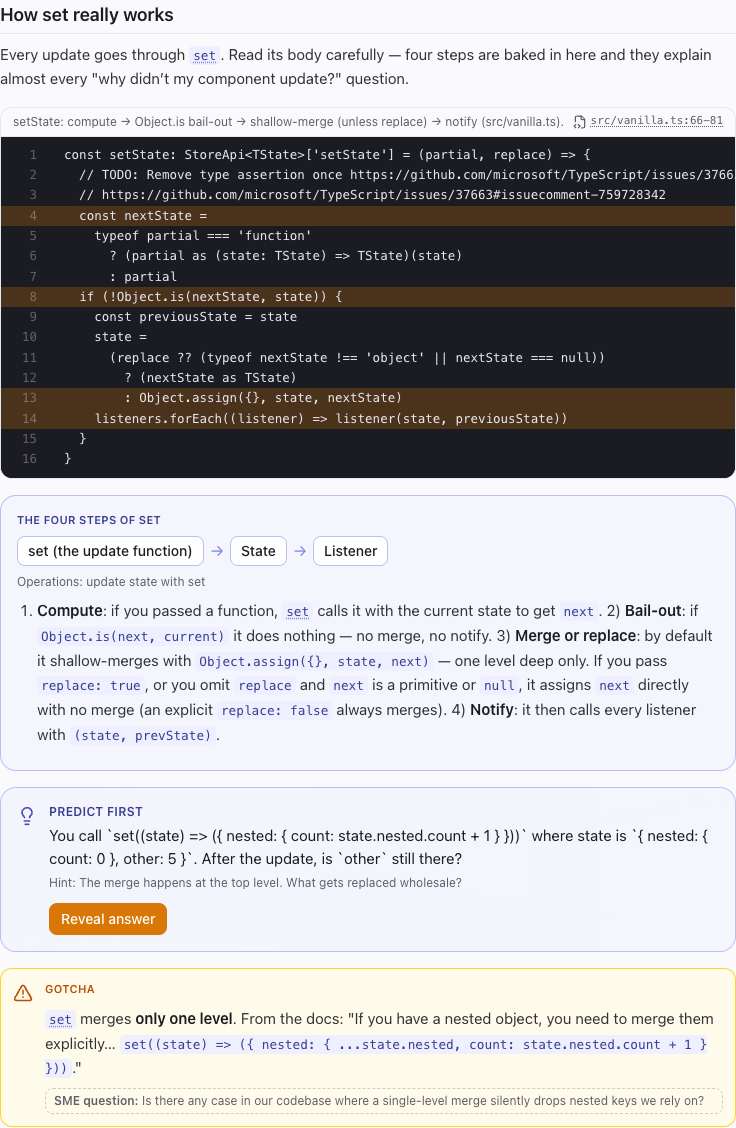
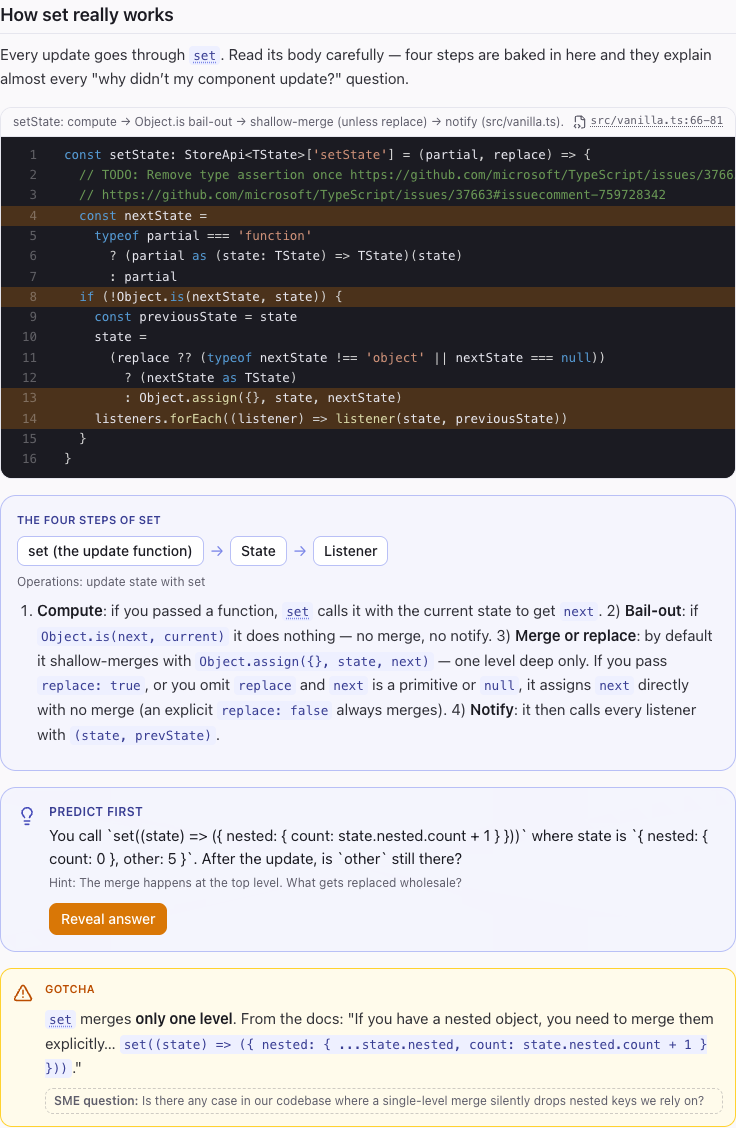
docs: 3.1.0 changelog, design addendum, screenshots, version bump

diff --git a/README.md b/README.md
@@ -6,7 +6,7 @@ system-explainer teaches how an unfamiliar software system really works, generat
 
 [**Live demo: the zustand course**](https://shaheershoaib.github.io/system-explainer/) · [**Its proof report**](onboarding-template/proof-runs/zustand/PROOF_REPORT.md) · [Install](#install) · [Architecture](docs/architecture.md)
 
-![The zustand course: system map, grounding badge, module list](docs/img/course-home.png)
+![The zustand course: the life of one set() call, grounding badge, data model, module list](docs/img/course-home.png)
 
 ## Why it exists
 
@@ -19,7 +19,7 @@ So the method is built around observation rather than recall. A grounding pass r
 | Job | What it produces | Where |
 |---|---|---|
 | **Teach** | A conversation that builds a concept-first mental model, validates it by making you restate it, stress-tests it, and grounds it in the real files, screens or endpoints. Persists a knowledge base you can commit. Works on a codebase, an API, infrastructure, or a live tool whose only "source" is a canvas or admin UI. | [`SKILL.md`](SKILL.md) |
-| **Generate** | A standalone interactive course: concept lessons, diagrams derived from the data model, quizzes built from a misconception bank, branching simulations with a live ledger, annotated real screens, spaced review, a lead dashboard. One engine, a validated data bundle per system. Hand-authored from a knowledge base, or autonomously from a cold repo in one command. | [`references/course-generation.md`](references/course-generation.md), [`onboarding-template/`](onboarding-template/) |
+| **Generate** | A standalone interactive course: "the life of one X" traced step by step as the landing hero, concept lessons, diagrams derived from the data model, syntax-highlighted verbatim code deep-linked to source, quizzes built from a misconception bank, branching simulations with a live ledger, annotated real screens, spaced review, a lead dashboard. One engine, a validated data bundle per system. Hand-authored from a knowledge base, or autonomously from a cold repo in one command. | [`references/course-generation.md`](references/course-generation.md), [`onboarding-template/`](onboarding-template/) |
 | **Prove** | A proof report on three layers: **faithful** (snippet = source, line-exact), **true** (each claim survives an adversarial refuter), **effective** (a learner who read the module beats a cold control on a hardened quiz). Plus `reverify`, which re-runs the grounding gate on every commit and fails when the repo drifts past the course. | [`onboarding-template/generator/`](onboarding-template/generator/) |
 
 ## See it: the flagship course
@@ -37,7 +37,8 @@ The proof pipeline was run on it before this release, and the run is committed u
 | 1 (course as first published) | 113 | 97 | 13 | 3 |
 | 2 | 149 | 142 | 3 | 4 |
 | 3 | 152 | 148 | 1 | 3 |
-| final | 155 | 155 | 0 | 0 |
+| 3.0.0 final | 155 | 155 | 0 | 0 |
+| 3.1.0 (an 8-step trace added to react-binding) | 184 | 184 | 0 | 0 |
 
 Every round's verdicts are kept under [`proof-runs/zustand/rounds/`](onboarding-template/proof-runs/zustand/rounds/). The classes of error the skeptic found are now an authoring checklist in the skill itself.
 

diff --git a/docs/specs/2026-09-04-v3-release-design.md b/docs/specs/2026-09-04-v3-release-design.md
@@ -52,3 +52,17 @@ This release does not change what the product IS (the verifier that emits a cour
 - Hosting: `vite build` with the Pages base, `vite preview`, then a browser check that `/system-explainer/module/<id>` deep-links load and that the code blocks deep-link to `#L` ranges.
 - Proof: `PROOF_REPORT.md` regenerated from committed inputs; any refuted claim is fixed in `authored/zustand.ts` and the affected module re-proved.
 - Skill edits: the Phase 4 move is checked by diffing the moved text against the original (byte-identical apart from the new heading/pointer).
+
+## 6. Addendum, 3.1.0 polish (same day, after the 3.0.0 merge)
+
+Decided after a look at the deployed course as a first-time visitor would see it. Same rule as above: reversible, listed so it can be reversed.
+
+| # | Decision | Alternatives weighed | Why this one |
+|---|---|---|---|
+| D13 | **Architecture edges are numbered badges plus a legend**, not inline text labels. | Better inline label placement; a layout library. | The context diagram already uses a legend for the same reason; inline labels collide as soon as a component has three connections, and a legend generalises to any system. |
+| D14 | **ER ranks are ordered by a barycenter sweep** to reduce edge crossings, with a `countCrossings` helper under test. | dagre / elk. | A few dozen lines, deterministic, testable, no dependency; a full layout engine is the fallback if real courses outgrow it. |
+| D15 | **Syntax highlighting via prism-react-renderer** through one shared `CodeLines` component used by code blocks and the spot-the-bug quiz. | shiki (WASM, heavy); highlight.js; none. | Smallest well-maintained React-native option; keeps the line gutter and highlight rows the engine already has. |
+| D16 | **The trace becomes a first-class block and the landing hero** (`traces[]`, a `trace` block, a stepper renderer, rendered as text for the proof harness). The flagship course gains "the life of one set() call". | Leave the trace as a markdown artifact of the teaching phase only. | The skill's own 2.8 invariant says the trace is the model for unit-of-work systems; the engine had no way to show it. Content added to a module is re-proved before it ships. |
+| D17 | **Route-level code splitting and vendor chunks** so no chunk trips the 500 kB warning. | Replace react-markdown with a lighter renderer. | Splitting is behaviour-preserving; swapping the markdown renderer risks rendering differences in every lesson. |
+| D18 | **A static build skips the name gate** and enters as Guest; the gate stays when a progress API is configured. | Keep the gate with the guest button. | Identity only matters when there is a dashboard to report to; on the hosted demo the gate is pure friction. |
+| D19 | **Mobile and keyboard focus checked in the browser** at 375px; only glaring issues fixed. | A full accessibility audit. | Out of proportion for this pass; the check is recorded so the gap is known, not assumed closed. |

diff --git a/CHANGELOG.md b/CHANGELOG.md
@@ -2,6 +2,19 @@
 
 The living instructions are in [`SKILL.md`](SKILL.md) and [`references/course-generation.md`](references/course-generation.md); this file is the record of how they got here. Versions before 3.0.0 were developed privately; their entries are condensed.
 
+## 3.1.0 (2026-09-04): the polish a first visitor notices
+
+Decisions D13 to D19 in the design record. Nothing here changes what the tool proves; all of it changes whether someone who lands on the demo stays.
+
+- **Syntax highlighting** in every code block and in the spot-the-bug quiz (prism-react-renderer through one shared `CodeLines` component; line gutter and highlight rows unchanged).
+- **The trace is first-class.** New `traces[]` in the bundle, a `trace` block, a stepper renderer, and the landing hero shows "the life of one X" above the data model when a course declares one. The proof harness renders traces as text so every step is adversarially checked like any other claim. The flagship course gained "The life of one update" (one `set()` call from the caller through `Object.is`, merge-or-replace, listener notification and React's re-render), verified against source.
+- **Diagrams.** Architecture connections are numbered badges with a legend instead of colliding inline labels; ER ranks are ordered by a barycenter sweep so edges stop crossing unrelated nodes (crossing count under test).
+- **Smaller first load.** Route-level code splitting (dashboard, review) and vendor chunks; no chunk trips the 500 kB warning.
+- **A static build skips the name gate** and enters as Guest; the gate stays when a progress API is configured.
+- Mobile width and keyboard focus checked in the browser at 375px: diagrams keep a minimum width and scroll sideways instead of shrinking to a thumbnail, and every interactive element gets one visible focus ring.
+- The proof harness's `genprep` now invalidates learner answers only for quizzes that actually changed, so re-proving one module does not discard the other modules' learner runs.
+- The re-proof after adding the trace: react-binding 67 of 67 atomic claims supported (184 of 184 across the course); the one React-internal clause the skeptic could not verify was cut.
+
 ## 3.0.0 (2026-09-04): see it, install it, trust it
 
 The product did not change: system-explainer is still the verifier that emits a course. This release removes the reasons a visitor bounced before finding that out. Design record: [`docs/specs/2026-09-04-v3-release-design.md`](docs/specs/2026-09-04-v3-release-design.md).
